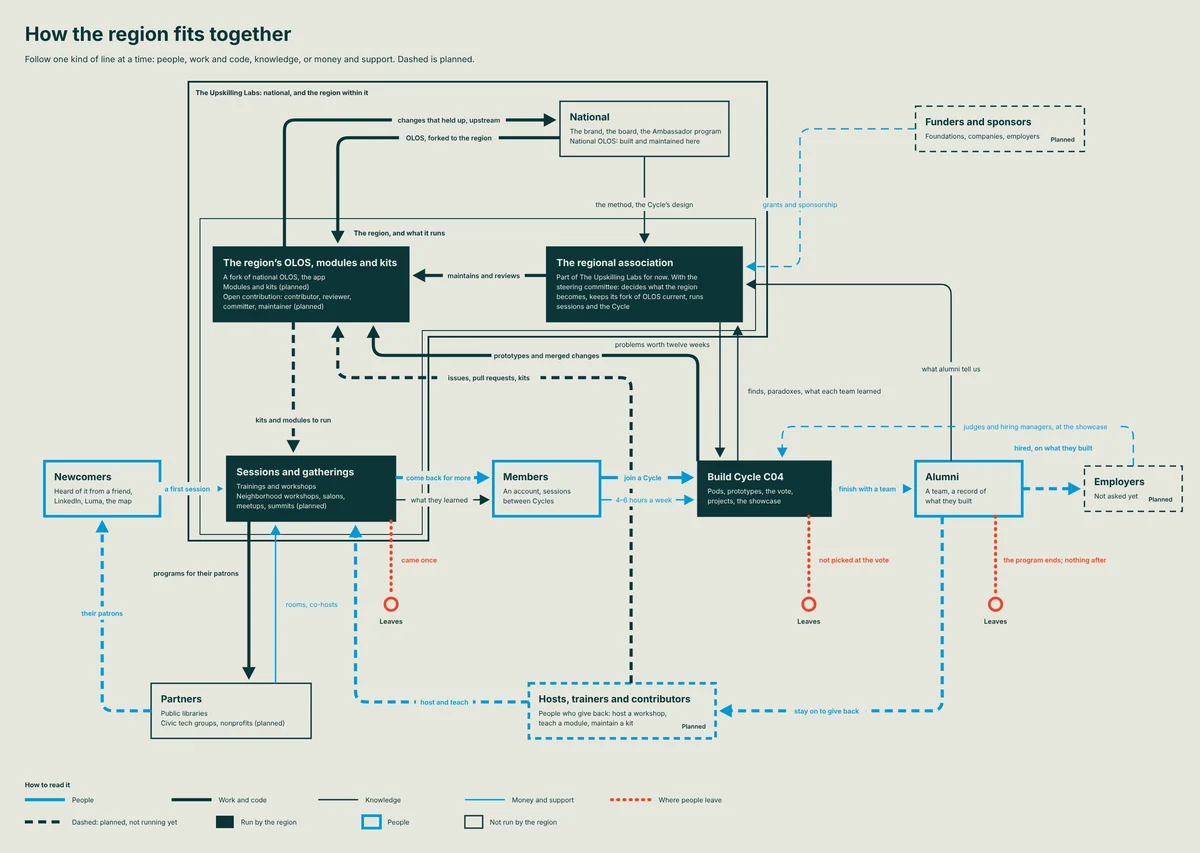
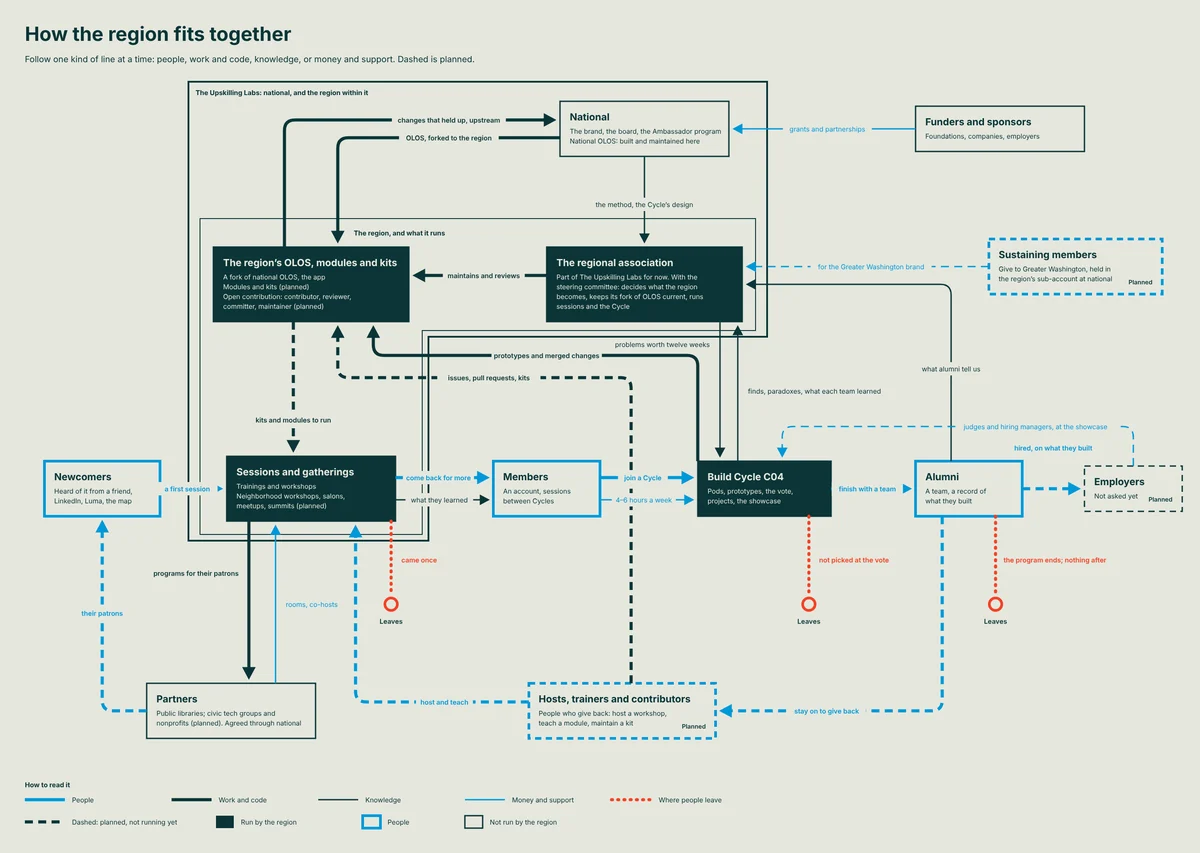
Region chart: grants and partnerships through national; sustaining members fund the region's brand
Claude-Session: https://claude.ai/code/session_01YavxCN4CNPAcbQzkCkrPMb

diff --git a/blog/region-chart/index.html b/blog/region-chart/index.html
@@ -33,7 +33,7 @@
     <a class="back" href="/blog/"><svg class="i" aria-hidden="true"><use href="#a-l"/></svg><span class="t t-small">All posts</span></a>
     <h1 style="--lsb:0.057em">How the region fits together, on one chart</h1>
     <p class="t-lead dek">How The Upskilling Labs of Greater Washington is organised, the dates the Cycle runs on, the route a person takes through both, and what we’re building next: kits, neighborhood workshops, salons, meetups, summits and an open commons.</p>
-    <p class="t-small byline">The Wayfinding pod, <time datetime="2026-11-07">Nov 7, 2026</time>. A five-minute read.</p>
+    <p class="t-small byline">The Wayfinding pod, <time datetime="2026-11-07">Nov 7, 2026</time>. A six-minute read.</p>
   </div>
 </header>
 
@@ -44,7 +44,7 @@
       <p>It’s hard to hold the whole region in your head at once, so we drew it as parts and what passes between them. The boxes are the parts: national; the regional association, which for now sits inside The Upskilling Labs, and the two things it runs; the Cycle, partners, funders, employers, and people at each stage. The lines are what moves. Four kinds of things move, and each has its own line, so you can follow one at a time: <strong>people</strong>, <strong>work and code</strong>, <strong>knowledge</strong>, and <strong>money and support</strong>.</p>
       <p>Red is where people leave. Dashed is planned: not running yet. Pick one kind of line to see it on its own.</p>
       <div class="flow-show" hidden><span class="t t-small">Show</span><button type="button" class="chip" data-show="all" aria-pressed="false">All</button><button type="button" class="chip" data-show="people" aria-pressed="false">People</button><button type="button" class="chip" data-show="work" aria-pressed="false">Work and code</button><button type="button" class="chip" data-show="knowledge" aria-pressed="false">Knowledge</button><button type="button" class="chip" data-show="support" aria-pressed="false">Money and support</button></div>
-      <div class="flow-wrap" data-show="all"><svg class="fnet" xmlns="http://www.w3.org/2000/svg" viewBox="0 0 2700 1920" role="img" aria-label="How the region fits together" font-family="Inter, system-ui, sans-serif"><rect width="2700" height="1920" fill="#e5e7de"/><text x="56" y="92" font-size="43.987" font-weight="700" fill="#0b3536">How the region fits together</text><text x="56" y="140" font-size="19.244" fill="#0b3536">Follow one kind of line at a time: people, work and code, knowledge, or money and support. Dashed is planned.</text><path d="M424.0,184.0 H1726.0 V758.0 H964.0 V1217.0 H424.0 Z" fill="none" stroke="#0b3536" stroke-width="4"/><text x="440.0" y="214.0" font-size="15.118" font-weight="700" fill="#0b3536">The Upskilling Labs: national, and the region within it</text><path d="M450.0,492.0 H1700.0 V744.0 H950.0 V1203.0 H450.0 Z" fill="none" stroke="#0b3536" stroke-width="2"/><text x="796.0" y="530.0" font-size="15.118" font-weight="700" fill="#0b3536">The region, and what it runs</text><g class="node"><rect x="1260.0" y="228.0" width="380" height="124.0" fill="#e5e7de" stroke="#0b3536" stroke-width="3"/><text x="1282.0" y="271.0" font-size="21.993" font-weight="700" fill="#0b3536">National</text><text x="1282.0" y="301.0" font-size="15.118" fill="#0b3536">The brand, the board, the Ambassador program</text><text x="1282.0" y="323.0" font-size="15.118" fill="#0b3536">National OLOS: built and maintained here</text></g><g class="node"><rect x="2060.0" y="239.0" width="380" height="102.0" fill="#e5e7de" stroke="#0b3536" stroke-width="3" stroke-dasharray="14 10"/><text x="2082.0" y="282.0" font-size="21.993" font-weight="700" fill="#0b3536">Funders and sponsors</text><text x="2082.0" y="312.0" font-size="15.118" fill="#0b3536">Foundations, companies, employers</text><text x="2418.0" y="319.0" text-anchor="end" font-size="13.745" font-weight="600" fill="#0b3536">Planned</text></g><g class="node"><rect x="480.0" y="556.0" width="440" height="168.0" fill="#0b3536" stroke="#0b3536" stroke-width="3"/><text x="502.0" y="599.0" font-size="21.993" font-weight="700" fill="#e5e7de">The region’s OLOS, modules and kits</text><text x="502.0" y="629.0" font-size="15.118" fill="#e5e7de">A fork of national OLOS, the app</text><text x="502.0" y="651.0" font-size="15.118" fill="#e5e7de">Modules and kits (planned)</text><text x="502.0" y="673.0" font-size="15.118" fill="#e5e7de">Open contribution: contributor, reviewer,</text><text x="502.0" y="695.0" font-size="15.118" fill="#e5e7de">committer, maintainer (planned)</text></g><g class="node"><rect x="1230.0" y="556.0" width="440" height="168.0" fill="#0b3536" stroke="#0b3536" stroke-width="3"/><text x="1252.0" y="599.0" font-size="21.993" font-weight="700" fill="#e5e7de">The regional association</text><text x="1252.0" y="629.0" font-size="15.118" fill="#e5e7de">Part of The Upskilling Labs for now. With the</text><text x="1252.0" y="651.0" font-size="15.118" fill="#e5e7de">steering committee: decides what the region</text><text x="1252.0" y="673.0" font-size="15.118" fill="#e5e7de">becomes, keeps its fork of OLOS current, runs</text><text x="1252.0" y="695.0" font-size="15.118" fill="#e5e7de">sessions and the Cycle</text></g><g class="node"><rect x="100.0" y="1038.0" width="260" height="124.0" fill="#e5e7de" stroke="#0098d8" stroke-width="6"/><text x="122.0" y="1081.0" font-size="21.993" font-weight="700" fill="#0b3536">Newcomers</text><text x="122.0" y="1111.0" font-size="15.118" fill="#0b3536">Heard of it from a friend,</text><text x="122.0" y="1133.0" font-size="15.118" fill="#0b3536">LinkedIn, Luma, the map</text></g><g class="node"><rect x="510.0" y="1027.0" width="380" height="146.0" fill="#0b3536" stroke="#0b3536" stroke-width="3"/><text x="532.0" y="1070.0" font-size="21.993" font-weight="700" fill="#e5e7de">Sessions and gatherings</text><text x="532.0" y="1100.0" font-size="15.118" fill="#e5e7de">Trainings and workshops</text><text x="532.0" y="1122.0" font-size="15.118" fill="#e5e7de">Neighborhood workshops, salons,</text><text x="532.0" y="1144.0" font-size="15.118" fill="#e5e7de">meetups, summits (planned)</text></g><g class="node"><rect x="1110.0" y="1038.0" width="240" height="124.0" fill="#e5e7de" stroke="#0098d8" stroke-width="6"/><text x="1132.0" y="1081.0" font-size="21.993" font-weight="700" fill="#0b3536">Members</text><text x="1132.0" y="1111.0" font-size="15.118" fill="#0b3536">An account, sessions</text><text x="1132.0" y="1133.0" font-size="15.118" fill="#0b3536">between Cycles</text></g><g class="node"><rect x="1570.0" y="1038.0" width="300" height="124.0" fill="#0b3536" stroke="#0b3536" stroke-width="3"/><text x="1592.0" y="1081.0" font-size="21.993" font-weight="700" fill="#e5e7de">Build Cycle C04</text><text x="1592.0" y="1111.0" font-size="15.118" fill="#e5e7de">Pods, prototypes, the vote,</text><text x="1592.0" y="1133.0" font-size="15.118" fill="#e5e7de">projects, the showcase</text></g><g class="node"><rect x="2060.0" y="1038.0" width="240" height="124.0" fill="#e5e7de" stroke="#0098d8" stroke-width="6"/><text x="2082.0" y="1081.0" font-size="21.993" font-weight="700" fill="#0b3536">Alumni</text><text x="2082.0" y="1111.0" font-size="15.118" fill="#0b3536">A team, a record of</text><text x="2082.0" y="1133.0" font-size="15.118" fill="#0b3536">what they built</text></g><g class="node"><rect x="2440.0" y="1049.0" width="220" height="102.0" fill="#e5e7de" stroke="#0b3536" stroke-width="3" stroke-dasharray="14 10"/><text x="2462.0" y="1092.0" font-size="21.993" font-weight="700" fill="#0b3536">Employers</text><text x="2462.0" y="1122.0" font-size="15.118" fill="#0b3536">Not asked yet</text><text x="2638.0" y="1129.0" text-anchor="end" font-size="13.745" font-weight="600" fill="#0b3536">Planned</text></g><g class="node"><rect x="340.0" y="1538.0" width="360" height="124.0" fill="#e5e7de" stroke="#0b3536" stroke-width="3"/><text x="362.0" y="1581.0" font-size="21.993" font-weight="700" fill="#0b3536">Partners</text><text x="362.0" y="1611.0" font-size="15.118" fill="#0b3536">Public libraries</text><text x="362.0" y="1633.0" font-size="15.118" fill="#0b3536">Civic tech groups, nonprofits (planned)</text></g><g class="node"><rect x="1190.0" y="1538.0" width="420" height="124.0" fill="#e5e7de" stroke="#0098d8" stroke-width="6" stroke-dasharray="14 10"/><text x="1212.0" y="1581.0" font-size="21.993" font-weight="700" fill="#0b3536">Hosts, trainers and contributors</text><text x="1212.0" y="1611.0" font-size="15.118" fill="#0b3536">People who give back: host a workshop,</text><text x="1212.0" y="1633.0" font-size="15.118" fill="#0b3536">teach a module, maintain a kit</text><text x="1588.0" y="1640.0" text-anchor="end" font-size="13.745" font-weight="600" fill="#0b3536">Planned</text></g><path class="fl f-people" d="M360.0,1100.0 L483.0,1100.0" fill="none" stroke="#0098d8" stroke-width="7"/><path class="fl f-people" d="M890.0,1075.0 L1083.0,1075.0" fill="none" stroke="#0098d8" stroke-width="7"/><path class="fl f-people" d="M1350.0,1075.0 L1543.0,1075.0" fill="none" stroke="#0098d8" stroke-width="7"/><path class="fl f-people" d="M1870.0,1100.0 L2033.0,1100.0" fill="none" stroke="#0098d8" stroke-width="7"/><path class="fl f-people" d="M2300.0,1100.0 L2413.0,1100.0" fill="none" stroke="#0098d8" stroke-width="7" stroke-dasharray="18 12"/><path class="fl f-people" d="M2120.0,1162.0 L2120.0,1576.0 Q2120.0,1600.0 2096.0,1600.0 L1637.0,1600.0" fill="none" stroke="#0098d8" stroke-width="7" stroke-dasharray="18 12"/><path class="fl f-people" d="M1190.0,1580.0 L824.0,1580.0 Q800.0,1580.0 800.0,1556.0 L800.0,1200.0" fill="none" stroke="#0098d8" stroke-width="7" stroke-dasharray="18 12"/><path class="fl f-people" d="M340.0,1600.0 L254.0,1600.0 Q230.0,1600.0 230.0,1576.0 L230.0,1189.0" fill="none" stroke="#0098d8" stroke-width="7" stroke-dasharray="18 12"/><path class="fl f-leak" d="M880.0,1173.0 L880.0,1334.0" fill="none" stroke="#f54123" stroke-width="7" stroke-dasharray="2 12" stroke-linecap="round"/><path class="fl f-leak" d="M1820.0,1162.0 L1820.0,1334.0" fill="none" stroke="#f54123" stroke-width="7" stroke-dasharray="2 12" stroke-linecap="round"/><path class="fl f-leak" d="M2240.0,1162.0 L2240.0,1334.0" fill="none" stroke="#f54123" stroke-width="7" stroke-dasharray="2 12" stroke-linecap="round"/><path class="fl f-work" d="M1230.0,620.0 L947.0,620.0" fill="none" stroke="#0b3536" stroke-width="7"/><path class="fl f-work" d="M1570.0,1038.0 L1570.0,824.0 Q1570.0,800.0 1546.0,800.0 L864.0,800.0 Q840.0,800.0 840.0,776.0 L840.0,751.0" fill="none" stroke="#0b3536" stroke-width="7"/><path class="fl f-work" d="M1420.0,1538.0 L1420.0,874.0 Q1420.0,850.0 1396.0,850.0 L784.0,850.0 Q760.0,850.0 760.0,826.0 L760.0,751.0" fill="none" stroke="#0b3536" stroke-width="7" stroke-dasharray="18 12"/><path class="fl f-work" d="M660.0,724.0 L660.0,1000.0" fill="none" stroke="#0b3536" stroke-width="7" stroke-dasharray="18 12"/><path class="fl f-work" d="M560.0,1173.0 L560.0,1511.0" fill="none" stroke="#0b3536" stroke-width="7"/><path class="fl f-knowledge" d="M1620.0,724.0 L1620.0,1015.0" fill="none" stroke="#0b3536" stroke-width="3"/><path class="fl f-knowledge" d="M1660.0,1038.0 L1660.0,747.0" fill="none" stroke="#0b3536" stroke-width="3"/><path class="fl f-knowledge" d="M890.0,1125.0 L1087.0,1125.0" fill="none" stroke="#0b3536" stroke-width="3"/><path class="fl f-knowledge" d="M2140.0,1038.0 L2140.0,664.0 Q2140.0,640.0 2116.0,640.0 L1693.0,640.0" fill="none" stroke="#0b3536" stroke-width="3"/><path class="fl f-support" d="M620.0,1538.0 L620.0,1196.0" fill="none" stroke="#0098d8" stroke-width="3"/><path class="fl f-support" d="M1350.0,1125.0 L1547.0,1125.0" fill="none" stroke="#0098d8" stroke-width="3"/><path class="fl f-support" d="M2550.0,1049.0 L2550.0,984.0 Q2550.0,960.0 2526.0,960.0 L1784.0,960.0 Q1760.0,960.0 1760.0,984.0 L1760.0,1015.0" fill="none" stroke="#0098d8" stroke-width="3" stroke-dasharray="18 12"/><path class="fl f-work" d="M1260.0,310.0 L784.0,310.0 Q760.0,310.0 760.0,334.0 L760.0,529.0" fill="none" stroke="#0b3536" stroke-width="7"/><path class="fl f-work" d="M640.0,556.0 L640.0,294.0 Q640.0,270.0 664.0,270.0 L1233.0,270.0" fill="none" stroke="#0b3536" stroke-width="7"/><path class="fl f-knowledge" d="M1450.0,352.0 L1450.0,533.0" fill="none" stroke="#0b3536" stroke-width="3"/><path class="fl f-support" d="M2060.0,290.0 L1824.0,290.0 Q1800.0,290.0 1800.0,314.0 L1800.0,576.0 Q1800.0,600.0 1776.0,600.0 L1693.0,600.0" fill="none" stroke="#0098d8" stroke-width="3" stroke-dasharray="18 12"/><path class="fl f-people" d="M473.5,1115.2 L502.0,1100.0 L473.5,1084.8 Z" fill="#0098d8"/><path class="fl f-people" d="M1073.5,1090.2 L1102.0,1075.0 L1073.5,1059.8 Z" fill="#0098d8"/><path class="fl f-people" d="M1533.5,1090.2 L1562.0,1075.0 L1533.5,1059.8 Z" fill="#0098d8"/><path class="fl f-people" d="M2023.5,1115.2 L2052.0,1100.0 L2023.5,1084.8 Z" fill="#0098d8"/><path class="fl f-people" d="M2403.5,1115.2 L2432.0,1100.0 L2403.5,1084.8 Z" fill="#0098d8"/><path class="fl f-people" d="M1646.5,1584.8 L1618.0,1600.0 L1646.5,1615.2 Z" fill="#0098d8"/><path class="fl f-people" d="M815.2,1209.5 L800.0,1181.0 L784.8,1209.5 Z" fill="#0098d8"/><path class="fl f-people" d="M245.2,1198.5 L230.0,1170.0 L214.8,1198.5 Z" fill="#0098d8"/><path class="fl f-work" d="M956.5,604.8 L928.0,620.0 L956.5,635.2 Z" fill="#0b3536"/><path class="fl f-work" d="M855.2,760.5 L840.0,732.0 L824.8,760.5 Z" fill="#0b3536"/><path class="fl f-work" d="M775.2,760.5 L760.0,732.0 L744.8,760.5 Z" fill="#0b3536"/><path class="fl f-work" d="M644.8,990.5 L660.0,1019.0 L675.2,990.5 Z" fill="#0b3536"/><path class="fl f-work" d="M544.8,1501.5 L560.0,1530.0 L575.2,1501.5 Z" fill="#0b3536"/><path class="fl f-knowledge" d="M1608.0,1007.5 L1620.0,1030.0 L1632.0,1007.5 Z" fill="#0b3536"/><path class="fl f-knowledge" d="M1672.0,754.5 L1660.0,732.0 L1648.0,754.5 Z" fill="#0b3536"/><path class="fl f-knowledge" d="M1079.5,1137.0 L1102.0,1125.0 L1079.5,1113.0 Z" fill="#0b3536"/><path class="fl f-knowledge" d="M1700.5,628.0 L1678.0,640.0 L1700.5,652.0 Z" fill="#0b3536"/><path class="fl f-support" d="M632.0,1203.5 L620.0,1181.0 L608.0,1203.5 Z" fill="#0098d8"/><path class="fl f-support" d="M1539.5,1137.0 L1562.0,1125.0 L1539.5,1113.0 Z" fill="#0098d8"/><path class="fl f-support" d="M1748.0,1007.5 L1760.0,1030.0 L1772.0,1007.5 Z" fill="#0098d8"/><path class="fl f-work" d="M744.8,519.5 L760.0,548.0 L775.2,519.5 Z" fill="#0b3536"/><path class="fl f-work" d="M1223.5,285.2 L1252.0,270.0 L1223.5,254.8 Z" fill="#0b3536"/><path class="fl f-knowledge" d="M1438.0,525.5 L1450.0,548.0 L1462.0,525.5 Z" fill="#0b3536"/><path class="fl f-support" d="M1700.5,588.0 L1678.0,600.0 L1700.5,612.0 Z" fill="#0098d8"/><g class="fl f-leak"><circle cx="880" cy="1360" r="14" fill="#e5e7de" stroke="#f54123" stroke-width="6"/><text x="880" y="1404" text-anchor="middle" font-size="15.118" font-weight="600" fill="#0b3536">Leaves</text></g><g class="fl f-leak"><circle cx="1820" cy="1360" r="14" fill="#e5e7de" stroke="#f54123" stroke-width="6"/><text x="1820" y="1404" text-anchor="middle" font-size="15.118" font-weight="600" fill="#0b3536">Leaves</text></g><g class="fl f-leak"><circle cx="2240" cy="1360" r="14" fill="#e5e7de" stroke="#f54123" stroke-width="6"/><text x="2240" y="1404" text-anchor="middle" font-size="15.118" font-weight="600" fill="#0b3536">Leaves</text></g><g class="fl f-people"><rect x="353.4" y="1085.0" width="136.2" height="30" fill="#e5e7de"/><text x="421.5" y="1105.5" text-anchor="middle" font-size="15.118" font-weight="600" fill="#0098d8">a first session</text></g><g class="fl f-people"><rect x="906.4" y="1060.0" width="160.2" height="30" fill="#e5e7de"/><text x="986.5" y="1080.5" text-anchor="middle" font-size="15.118" font-weight="600" fill="#0098d8">come back for more</text></g><g class="fl f-people"><rect x="1390.4" y="1060.0" width="112.2" height="30" fill="#e5e7de"/><text x="1446.5" y="1080.5" text-anchor="middle" font-size="15.118" font-weight="600" fill="#0098d8">join a Cycle</text></g><g class="fl f-people"><rect x="1871.4" y="1085.0" width="160.2" height="30" fill="#e5e7de"/><text x="1951.5" y="1105.5" text-anchor="middle" font-size="15.118" font-weight="600" fill="#0098d8">finish with a team</text></g><g class="fl f-people"><rect x="2261.8" y="993.0" width="216.3" height="30" fill="#e5e7de"/><text x="2370.0" y="1013.5" text-anchor="middle" font-size="15.118" font-weight="600" fill="#0098d8">hired, on what they built</text></g><g class="fl f-people"><rect x="1771.9" y="1585.0" width="176.3" height="30" fill="#e5e7de"/><text x="1860.0" y="1605.5" text-anchor="middle" font-size="15.118" font-weight="600" fill="#0098d8">stay on to give back</text></g><g class="fl f-people"><rect x="935.9" y="1565.0" width="128.2" height="30" fill="#e5e7de"/><text x="1000.0" y="1585.5" text-anchor="middle" font-size="15.118" font-weight="600" fill="#0098d8">host and teach</text></g><g class="fl f-people"><rect x="169.9" y="1365.0" width="120.2" height="30" fill="#e5e7de"/><text x="230.0" y="1385.5" text-anchor="middle" font-size="15.118" font-weight="600" fill="#0098d8">their patrons</text></g><g class="fl f-leak"><rect x="895.0" y="1245.0" width="88.1" height="30" fill="#e5e7de"/><text x="903.0" y="1265.5" text-anchor="start" font-size="15.118" font-weight="600" fill="#f54123">came once</text></g><g class="fl f-leak"><rect x="1835.0" y="1245.0" width="192.3" height="30" fill="#e5e7de"/><text x="1843.0" y="1265.5" text-anchor="start" font-size="15.118" font-weight="600" fill="#f54123">not picked at the vote</text></g><g class="fl f-leak"><rect x="2250.0" y="1245.0" width="264.4" height="30" fill="#e5e7de"/><text x="2258.0" y="1265.5" text-anchor="start" font-size="15.118" font-weight="600" fill="#f54123">the program ends; nothing after</text></g><g class="fl f-work"><rect x="996.4" y="605.0" width="184.3" height="30" fill="#e5e7de"/><text x="1088.5" y="625.5" text-anchor="middle" font-size="15.118" font-weight="600" fill="#0b3536">maintains and reviews</text></g><g class="fl f-work"><rect x="1105.8" y="785.0" width="248.4" height="30" fill="#e5e7de"/><text x="1230.0" y="805.5" text-anchor="middle" font-size="15.118" font-weight="600" fill="#0b3536">prototypes and merged changes</text></g><g class="fl f-work"><rect x="983.8" y="835.0" width="232.3" height="30" fill="#e5e7de"/><text x="1100.0" y="855.5" text-anchor="middle" font-size="15.118" font-weight="600" fill="#0b3536">issues, pull requests, kits</text></g><g class="fl f-work"><rect x="559.9" y="930.0" width="200.3" height="30" fill="#e5e7de"/><text x="660.0" y="950.5" text-anchor="middle" font-size="15.118" font-weight="600" fill="#0b3536">kits and modules to run</text></g><g class="fl f-work"><rect x="320.7" y="1275.0" width="224.3" height="30" fill="#e5e7de"/><text x="537.0" y="1295.5" text-anchor="end" font-size="15.118" font-weight="600" fill="#0b3536">programs for their patrons</text></g><g class="fl f-knowledge"><rect x="1372.7" y="760.0" width="232.3" height="30" fill="#e5e7de"/><text x="1597.0" y="780.5" text-anchor="end" font-size="15.118" font-weight="400" fill="#0b3536">problems worth twelve weeks</text></g><g class="fl f-knowledge"><rect x="1675.0" y="865.0" width="336.5" height="30" fill="#e5e7de"/><text x="1683.0" y="885.5" text-anchor="start" font-size="15.118" font-weight="400" fill="#0b3536">finds, paradoxes, what each team learned</text></g><g class="fl f-knowledge"><rect x="912.4" y="1110.0" width="152.2" height="30" fill="#e5e7de"/><text x="988.5" y="1130.5" text-anchor="middle" font-size="15.118" font-weight="400" fill="#0b3536">what they learned</text></g><g class="fl f-knowledge"><rect x="2055.9" y="815.0" width="168.2" height="30" fill="#e5e7de"/><text x="2140.0" y="835.5" text-anchor="middle" font-size="15.118" font-weight="400" fill="#0b3536">what alumni tell us</text></g><g class="fl f-support"><rect x="635.0" y="1345.0" width="136.2" height="30" fill="#e5e7de"/><text x="643.0" y="1365.5" text-anchor="start" font-size="15.118" font-weight="400" fill="#0098d8">rooms, co-hosts</text></g><g class="fl f-support"><rect x="1376.4" y="1110.0" width="144.2" height="30" fill="#e5e7de"/><text x="1448.5" y="1130.5" text-anchor="middle" font-size="15.118" font-weight="400" fill="#0098d8">4–6 hours a week</text></g><g class="fl f-support"><rect x="2149.7" y="945.0" width="360.5" height="30" fill="#e5e7de"/><text x="2330.0" y="965.5" text-anchor="middle" font-size="15.118" font-weight="400" fill="#0098d8">judges and hiring managers, at the showcase</text></g><g class="fl f-work"><rect x="897.8" y="295.0" width="224.3" height="30" fill="#e5e7de"/><text x="1010.0" y="315.5" text-anchor="middle" font-size="15.118" font-weight="600" fill="#0b3536">OLOS, forked to the region</text></g><g class="fl f-work"><rect x="881.8" y="255.0" width="256.4" height="30" fill="#e5e7de"/><text x="1010.0" y="275.5" text-anchor="middle" font-size="15.118" font-weight="600" fill="#0b3536">changes that held up, upstream</text></g><g class="fl f-knowledge"><rect x="1321.8" y="445.0" width="256.4" height="30" fill="#e5e7de"/><text x="1450.0" y="465.5" text-anchor="middle" font-size="15.118" font-weight="400" fill="#0b3536">the method, the Cycle’s design</text></g><g class="fl f-support"><rect x="1703.9" y="445.0" width="192.3" height="30" fill="#e5e7de"/><text x="1800.0" y="465.5" text-anchor="middle" font-size="15.118" font-weight="400" fill="#0098d8">grants and sponsorship</text></g><text x="56" y="1772" font-size="15.118" font-weight="700" fill="#0b3536">How to read it</text><line x1="56" y1="1800" x2="146" y2="1800" stroke="#0098d8" stroke-width="7"/><text x="162" y="1805.5" font-size="15.118" fill="#0b3536">People</text><line x1="386" y1="1800" x2="476" y2="1800" stroke="#0b3536" stroke-width="7"/><text x="492" y="1805.5" font-size="15.118" fill="#0b3536">Work and code</text><line x1="716" y1="1800" x2="806" y2="1800" stroke="#0b3536" stroke-width="3"/><text x="822" y="1805.5" font-size="15.118" fill="#0b3536">Knowledge</text><line x1="1046" y1="1800" x2="1136" y2="1800" stroke="#0098d8" stroke-width="3"/><text x="1152" y="1805.5" font-size="15.118" fill="#0b3536">Money and support</text><line x1="1376" y1="1800" x2="1466" y2="1800" stroke="#f54123" stroke-width="7" stroke-dasharray="2 12" stroke-linecap="round"/><text x="1482" y="1805.5" font-size="15.118" fill="#0b3536">Where people leave</text><line x1="56" y1="1850" x2="146" y2="1850" stroke="#0b3536" stroke-width="7" stroke-dasharray="18 12"/><text x="162" y="1855.5" font-size="15.118" fill="#0b3536">Dashed: planned, not running yet</text><rect x="486" y="1836" width="40" height="28" fill="#0b3536"/><text x="542" y="1855.5" font-size="15.118" fill="#0b3536">Run by the region</text><rect x="816" y="1836" width="40" height="28" fill="#e5e7de" stroke="#0098d8" stroke-width="6"/><text x="872" y="1855.5" font-size="15.118" fill="#0b3536">People</text><rect x="1046" y="1836" width="40" height="28" fill="#e5e7de" stroke="#0b3536" stroke-width="3"/><text x="1102" y="1855.5" font-size="15.118" fill="#0b3536">Not run by the region</text></svg></div>
+      <div class="flow-wrap" data-show="all"><svg class="fnet" xmlns="http://www.w3.org/2000/svg" viewBox="0 0 2700 1920" role="img" aria-label="How the region fits together" font-family="Inter, system-ui, sans-serif"><rect width="2700" height="1920" fill="#e5e7de"/><text x="56" y="92" font-size="43.987" font-weight="700" fill="#0b3536">How the region fits together</text><text x="56" y="140" font-size="19.244" fill="#0b3536">Follow one kind of line at a time: people, work and code, knowledge, or money and support. Dashed is planned.</text><path d="M424.0,184.0 H1726.0 V758.0 H964.0 V1217.0 H424.0 Z" fill="none" stroke="#0b3536" stroke-width="4"/><text x="440.0" y="214.0" font-size="15.118" font-weight="700" fill="#0b3536">The Upskilling Labs: national, and the region within it</text><path d="M450.0,492.0 H1700.0 V744.0 H950.0 V1203.0 H450.0 Z" fill="none" stroke="#0b3536" stroke-width="2"/><text x="796.0" y="530.0" font-size="15.118" font-weight="700" fill="#0b3536">The region, and what it runs</text><g class="node"><rect x="1260.0" y="228.0" width="380" height="124.0" fill="#e5e7de" stroke="#0b3536" stroke-width="3"/><text x="1282.0" y="271.0" font-size="21.993" font-weight="700" fill="#0b3536">National</text><text x="1282.0" y="301.0" font-size="15.118" fill="#0b3536">The brand, the board, the Ambassador program</text><text x="1282.0" y="323.0" font-size="15.118" fill="#0b3536">National OLOS: built and maintained here</text></g><g class="node"><rect x="2060.0" y="239.0" width="380" height="102.0" fill="#e5e7de" stroke="#0b3536" stroke-width="3"/><text x="2082.0" y="282.0" font-size="21.993" font-weight="700" fill="#0b3536">Funders and sponsors</text><text x="2082.0" y="312.0" font-size="15.118" fill="#0b3536">Foundations, companies, employers</text></g><g class="node"><rect x="480.0" y="556.0" width="440" height="168.0" fill="#0b3536" stroke="#0b3536" stroke-width="3"/><text x="502.0" y="599.0" font-size="21.993" font-weight="700" fill="#e5e7de">The region’s OLOS, modules and kits</text><text x="502.0" y="629.0" font-size="15.118" fill="#e5e7de">A fork of national OLOS, the app</text><text x="502.0" y="651.0" font-size="15.118" fill="#e5e7de">Modules and kits (planned)</text><text x="502.0" y="673.0" font-size="15.118" fill="#e5e7de">Open contribution: contributor, reviewer,</text><text x="502.0" y="695.0" font-size="15.118" fill="#e5e7de">committer, maintainer (planned)</text></g><g class="node"><rect x="1230.0" y="556.0" width="440" height="168.0" fill="#0b3536" stroke="#0b3536" stroke-width="3"/><text x="1252.0" y="599.0" font-size="21.993" font-weight="700" fill="#e5e7de">The regional association</text><text x="1252.0" y="629.0" font-size="15.118" fill="#e5e7de">Part of The Upskilling Labs for now. With the</text><text x="1252.0" y="651.0" font-size="15.118" fill="#e5e7de">steering committee: decides what the region</text><text x="1252.0" y="673.0" font-size="15.118" fill="#e5e7de">becomes, keeps its fork of OLOS current, runs</text><text x="1252.0" y="695.0" font-size="15.118" fill="#e5e7de">sessions and the Cycle</text></g><g class="node"><rect x="100.0" y="1038.0" width="260" height="124.0" fill="#e5e7de" stroke="#0098d8" stroke-width="6"/><text x="122.0" y="1081.0" font-size="21.993" font-weight="700" fill="#0b3536">Newcomers</text><text x="122.0" y="1111.0" font-size="15.118" fill="#0b3536">Heard of it from a friend,</text><text x="122.0" y="1133.0" font-size="15.118" fill="#0b3536">LinkedIn, Luma, the map</text></g><g class="node"><rect x="510.0" y="1027.0" width="380" height="146.0" fill="#0b3536" stroke="#0b3536" stroke-width="3"/><text x="532.0" y="1070.0" font-size="21.993" font-weight="700" fill="#e5e7de">Sessions and gatherings</text><text x="532.0" y="1100.0" font-size="15.118" fill="#e5e7de">Trainings and workshops</text><text x="532.0" y="1122.0" font-size="15.118" fill="#e5e7de">Neighborhood workshops, salons,</text><text x="532.0" y="1144.0" font-size="15.118" fill="#e5e7de">meetups, summits (planned)</text></g><g class="node"><rect x="1110.0" y="1038.0" width="240" height="124.0" fill="#e5e7de" stroke="#0098d8" stroke-width="6"/><text x="1132.0" y="1081.0" font-size="21.993" font-weight="700" fill="#0b3536">Members</text><text x="1132.0" y="1111.0" font-size="15.118" fill="#0b3536">An account, sessions</text><text x="1132.0" y="1133.0" font-size="15.118" fill="#0b3536">between Cycles</text></g><g class="node"><rect x="1570.0" y="1038.0" width="300" height="124.0" fill="#0b3536" stroke="#0b3536" stroke-width="3"/><text x="1592.0" y="1081.0" font-size="21.993" font-weight="700" fill="#e5e7de">Build Cycle C04</text><text x="1592.0" y="1111.0" font-size="15.118" fill="#e5e7de">Pods, prototypes, the vote,</text><text x="1592.0" y="1133.0" font-size="15.118" fill="#e5e7de">projects, the showcase</text></g><g class="node"><rect x="2060.0" y="1038.0" width="240" height="124.0" fill="#e5e7de" stroke="#0098d8" stroke-width="6"/><text x="2082.0" y="1081.0" font-size="21.993" font-weight="700" fill="#0b3536">Alumni</text><text x="2082.0" y="1111.0" font-size="15.118" fill="#0b3536">A team, a record of</text><text x="2082.0" y="1133.0" font-size="15.118" fill="#0b3536">what they built</text></g><g class="node"><rect x="2440.0" y="1049.0" width="220" height="102.0" fill="#e5e7de" stroke="#0b3536" stroke-width="3" stroke-dasharray="14 10"/><text x="2462.0" y="1092.0" font-size="21.993" font-weight="700" fill="#0b3536">Employers</text><text x="2462.0" y="1122.0" font-size="15.118" fill="#0b3536">Not asked yet</text><text x="2638.0" y="1129.0" text-anchor="end" font-size="13.745" font-weight="600" fill="#0b3536">Planned</text></g><g class="node"><rect x="330.0" y="1538.0" width="380" height="124.0" fill="#e5e7de" stroke="#0b3536" stroke-width="3"/><text x="352.0" y="1581.0" font-size="21.993" font-weight="700" fill="#0b3536">Partners</text><text x="352.0" y="1611.0" font-size="15.118" fill="#0b3536">Public libraries; civic tech groups and</text><text x="352.0" y="1633.0" font-size="15.118" fill="#0b3536">nonprofits (planned). Agreed through national</text></g><g class="node"><rect x="1190.0" y="1538.0" width="420" height="124.0" fill="#e5e7de" stroke="#0098d8" stroke-width="6" stroke-dasharray="14 10"/><text x="1212.0" y="1581.0" font-size="21.993" font-weight="700" fill="#0b3536">Hosts, trainers and contributors</text><text x="1212.0" y="1611.0" font-size="15.118" fill="#0b3536">People who give back: host a workshop,</text><text x="1212.0" y="1633.0" font-size="15.118" fill="#0b3536">teach a module, maintain a kit</text><text x="1588.0" y="1640.0" text-anchor="end" font-size="13.745" font-weight="600" fill="#0b3536">Planned</text></g><g class="node"><rect x="2225.0" y="538.0" width="390" height="124.0" fill="#e5e7de" stroke="#0098d8" stroke-width="6" stroke-dasharray="14 10"/><text x="2247.0" y="581.0" font-size="21.993" font-weight="700" fill="#0b3536">Sustaining members</text><text x="2247.0" y="611.0" font-size="15.118" fill="#0b3536">Give to Greater Washington, held in</text><text x="2247.0" y="633.0" font-size="15.118" fill="#0b3536">the region’s sub-account at national</text><text x="2593.0" y="640.0" text-anchor="end" font-size="13.745" font-weight="600" fill="#0b3536">Planned</text></g><path class="fl f-people" d="M360.0,1100.0 L483.0,1100.0" fill="none" stroke="#0098d8" stroke-width="7"/><path class="fl f-people" d="M890.0,1075.0 L1083.0,1075.0" fill="none" stroke="#0098d8" stroke-width="7"/><path class="fl f-people" d="M1350.0,1075.0 L1543.0,1075.0" fill="none" stroke="#0098d8" stroke-width="7"/><path class="fl f-people" d="M1870.0,1100.0 L2033.0,1100.0" fill="none" stroke="#0098d8" stroke-width="7"/><path class="fl f-people" d="M2300.0,1100.0 L2413.0,1100.0" fill="none" stroke="#0098d8" stroke-width="7" stroke-dasharray="18 12"/><path class="fl f-people" d="M2120.0,1162.0 L2120.0,1576.0 Q2120.0,1600.0 2096.0,1600.0 L1637.0,1600.0" fill="none" stroke="#0098d8" stroke-width="7" stroke-dasharray="18 12"/><path class="fl f-people" d="M1190.0,1580.0 L824.0,1580.0 Q800.0,1580.0 800.0,1556.0 L800.0,1200.0" fill="none" stroke="#0098d8" stroke-width="7" stroke-dasharray="18 12"/><path class="fl f-people" d="M330.0,1600.0 L254.0,1600.0 Q230.0,1600.0 230.0,1576.0 L230.0,1189.0" fill="none" stroke="#0098d8" stroke-width="7" stroke-dasharray="18 12"/><path class="fl f-leak" d="M880.0,1173.0 L880.0,1334.0" fill="none" stroke="#f54123" stroke-width="7" stroke-dasharray="2 12" stroke-linecap="round"/><path class="fl f-leak" d="M1820.0,1162.0 L1820.0,1334.0" fill="none" stroke="#f54123" stroke-width="7" stroke-dasharray="2 12" stroke-linecap="round"/><path class="fl f-leak" d="M2240.0,1162.0 L2240.0,1334.0" fill="none" stroke="#f54123" stroke-width="7" stroke-dasharray="2 12" stroke-linecap="round"/><path class="fl f-work" d="M1230.0,620.0 L947.0,620.0" fill="none" stroke="#0b3536" stroke-width="7"/><path class="fl f-work" d="M1570.0,1038.0 L1570.0,824.0 Q1570.0,800.0 1546.0,800.0 L864.0,800.0 Q840.0,800.0 840.0,776.0 L840.0,751.0" fill="none" stroke="#0b3536" stroke-width="7"/><path class="fl f-work" d="M1420.0,1538.0 L1420.0,874.0 Q1420.0,850.0 1396.0,850.0 L784.0,850.0 Q760.0,850.0 760.0,826.0 L760.0,751.0" fill="none" stroke="#0b3536" stroke-width="7" stroke-dasharray="18 12"/><path class="fl f-work" d="M660.0,724.0 L660.0,1000.0" fill="none" stroke="#0b3536" stroke-width="7" stroke-dasharray="18 12"/><path class="fl f-work" d="M560.0,1173.0 L560.0,1511.0" fill="none" stroke="#0b3536" stroke-width="7"/><path class="fl f-knowledge" d="M1620.0,724.0 L1620.0,1015.0" fill="none" stroke="#0b3536" stroke-width="3"/><path class="fl f-knowledge" d="M1660.0,1038.0 L1660.0,747.0" fill="none" stroke="#0b3536" stroke-width="3"/><path class="fl f-knowledge" d="M890.0,1125.0 L1087.0,1125.0" fill="none" stroke="#0b3536" stroke-width="3"/><path class="fl f-knowledge" d="M2140.0,1038.0 L2140.0,664.0 Q2140.0,640.0 2116.0,640.0 L1693.0,640.0" fill="none" stroke="#0b3536" stroke-width="3"/><path class="fl f-support" d="M620.0,1538.0 L620.0,1196.0" fill="none" stroke="#0098d8" stroke-width="3"/><path class="fl f-support" d="M1350.0,1125.0 L1547.0,1125.0" fill="none" stroke="#0098d8" stroke-width="3"/><path class="fl f-support" d="M2550.0,1049.0 L2550.0,984.0 Q2550.0,960.0 2526.0,960.0 L1784.0,960.0 Q1760.0,960.0 1760.0,984.0 L1760.0,1015.0" fill="none" stroke="#0098d8" stroke-width="3" stroke-dasharray="18 12"/><path class="fl f-work" d="M1260.0,310.0 L784.0,310.0 Q760.0,310.0 760.0,334.0 L760.0,529.0" fill="none" stroke="#0b3536" stroke-width="7"/><path class="fl f-work" d="M640.0,556.0 L640.0,294.0 Q640.0,270.0 664.0,270.0 L1233.0,270.0" fill="none" stroke="#0b3536" stroke-width="7"/><path class="fl f-knowledge" d="M1450.0,352.0 L1450.0,533.0" fill="none" stroke="#0b3536" stroke-width="3"/><path class="fl f-support" d="M2060.0,290.0 L1663.0,290.0" fill="none" stroke="#0098d8" stroke-width="3"/><path class="fl f-support" d="M2225.0,600.0 L1693.0,600.0" fill="none" stroke="#0098d8" stroke-width="3" stroke-dasharray="18 12"/><path class="fl f-people" d="M473.5,1115.2 L502.0,1100.0 L473.5,1084.8 Z" fill="#0098d8"/><path class="fl f-people" d="M1073.5,1090.2 L1102.0,1075.0 L1073.5,1059.8 Z" fill="#0098d8"/><path class="fl f-people" d="M1533.5,1090.2 L1562.0,1075.0 L1533.5,1059.8 Z" fill="#0098d8"/><path class="fl f-people" d="M2023.5,1115.2 L2052.0,1100.0 L2023.5,1084.8 Z" fill="#0098d8"/><path class="fl f-people" d="M2403.5,1115.2 L2432.0,1100.0 L2403.5,1084.8 Z" fill="#0098d8"/><path class="fl f-people" d="M1646.5,1584.8 L1618.0,1600.0 L1646.5,1615.2 Z" fill="#0098d8"/><path class="fl f-people" d="M815.2,1209.5 L800.0,1181.0 L784.8,1209.5 Z" fill="#0098d8"/><path class="fl f-people" d="M245.2,1198.5 L230.0,1170.0 L214.8,1198.5 Z" fill="#0098d8"/><path class="fl f-work" d="M956.5,604.8 L928.0,620.0 L956.5,635.2 Z" fill="#0b3536"/><path class="fl f-work" d="M855.2,760.5 L840.0,732.0 L824.8,760.5 Z" fill="#0b3536"/><path class="fl f-work" d="M775.2,760.5 L760.0,732.0 L744.8,760.5 Z" fill="#0b3536"/><path class="fl f-work" d="M644.8,990.5 L660.0,1019.0 L675.2,990.5 Z" fill="#0b3536"/><path class="fl f-work" d="M544.8,1501.5 L560.0,1530.0 L575.2,1501.5 Z" fill="#0b3536"/><path class="fl f-knowledge" d="M1608.0,1007.5 L1620.0,1030.0 L1632.0,1007.5 Z" fill="#0b3536"/><path class="fl f-knowledge" d="M1672.0,754.5 L1660.0,732.0 L1648.0,754.5 Z" fill="#0b3536"/><path class="fl f-knowledge" d="M1079.5,1137.0 L1102.0,1125.0 L1079.5,1113.0 Z" fill="#0b3536"/><path class="fl f-knowledge" d="M1700.5,628.0 L1678.0,640.0 L1700.5,652.0 Z" fill="#0b3536"/><path class="fl f-support" d="M632.0,1203.5 L620.0,1181.0 L608.0,1203.5 Z" fill="#0098d8"/><path class="fl f-support" d="M1539.5,1137.0 L1562.0,1125.0 L1539.5,1113.0 Z" fill="#0098d8"/><path class="fl f-support" d="M1748.0,1007.5 L1760.0,1030.0 L1772.0,1007.5 Z" fill="#0098d8"/><path class="fl f-work" d="M744.8,519.5 L760.0,548.0 L775.2,519.5 Z" fill="#0b3536"/><path class="fl f-work" d="M1223.5,285.2 L1252.0,270.0 L1223.5,254.8 Z" fill="#0b3536"/><path class="fl f-knowledge" d="M1438.0,525.5 L1450.0,548.0 L1462.0,525.5 Z" fill="#0b3536"/><path class="fl f-support" d="M1670.5,278.0 L1648.0,290.0 L1670.5,302.0 Z" fill="#0098d8"/><path class="fl f-support" d="M1700.5,588.0 L1678.0,600.0 L1700.5,612.0 Z" fill="#0098d8"/><g class="fl f-leak"><circle cx="880" cy="1360" r="14" fill="#e5e7de" stroke="#f54123" stroke-width="6"/><text x="880" y="1404" text-anchor="middle" font-size="15.118" font-weight="600" fill="#0b3536">Leaves</text></g><g class="fl f-leak"><circle cx="1820" cy="1360" r="14" fill="#e5e7de" stroke="#f54123" stroke-width="6"/><text x="1820" y="1404" text-anchor="middle" font-size="15.118" font-weight="600" fill="#0b3536">Leaves</text></g><g class="fl f-leak"><circle cx="2240" cy="1360" r="14" fill="#e5e7de" stroke="#f54123" stroke-width="6"/><text x="2240" y="1404" text-anchor="middle" font-size="15.118" font-weight="600" fill="#0b3536">Leaves</text></g><g class="fl f-people"><rect x="353.4" y="1085.0" width="136.2" height="30" fill="#e5e7de"/><text x="421.5" y="1105.5" text-anchor="middle" font-size="15.118" font-weight="600" fill="#0098d8">a first session</text></g><g class="fl f-people"><rect x="906.4" y="1060.0" width="160.2" height="30" fill="#e5e7de"/><text x="986.5" y="1080.5" text-anchor="middle" font-size="15.118" font-weight="600" fill="#0098d8">come back for more</text></g><g class="fl f-people"><rect x="1390.4" y="1060.0" width="112.2" height="30" fill="#e5e7de"/><text x="1446.5" y="1080.5" text-anchor="middle" font-size="15.118" font-weight="600" fill="#0098d8">join a Cycle</text></g><g class="fl f-people"><rect x="1871.4" y="1085.0" width="160.2" height="30" fill="#e5e7de"/><text x="1951.5" y="1105.5" text-anchor="middle" font-size="15.118" font-weight="600" fill="#0098d8">finish with a team</text></g><g class="fl f-people"><rect x="2261.8" y="993.0" width="216.3" height="30" fill="#e5e7de"/><text x="2370.0" y="1013.5" text-anchor="middle" font-size="15.118" font-weight="600" fill="#0098d8">hired, on what they built</text></g><g class="fl f-people"><rect x="1771.9" y="1585.0" width="176.3" height="30" fill="#e5e7de"/><text x="1860.0" y="1605.5" text-anchor="middle" font-size="15.118" font-weight="600" fill="#0098d8">stay on to give back</text></g><g class="fl f-people"><rect x="935.9" y="1565.0" width="128.2" height="30" fill="#e5e7de"/><text x="1000.0" y="1585.5" text-anchor="middle" font-size="15.118" font-weight="600" fill="#0098d8">host and teach</text></g><g class="fl f-people"><rect x="169.9" y="1365.0" width="120.2" height="30" fill="#e5e7de"/><text x="230.0" y="1385.5" text-anchor="middle" font-size="15.118" font-weight="600" fill="#0098d8">their patrons</text></g><g class="fl f-leak"><rect x="895.0" y="1245.0" width="88.1" height="30" fill="#e5e7de"/><text x="903.0" y="1265.5" text-anchor="start" font-size="15.118" font-weight="600" fill="#f54123">came once</text></g><g class="fl f-leak"><rect x="1835.0" y="1245.0" width="192.3" height="30" fill="#e5e7de"/><text x="1843.0" y="1265.5" text-anchor="start" font-size="15.118" font-weight="600" fill="#f54123">not picked at the vote</text></g><g class="fl f-leak"><rect x="2250.0" y="1245.0" width="264.4" height="30" fill="#e5e7de"/><text x="2258.0" y="1265.5" text-anchor="start" font-size="15.118" font-weight="600" fill="#f54123">the program ends; nothing after</text></g><g class="fl f-work"><rect x="996.4" y="605.0" width="184.3" height="30" fill="#e5e7de"/><text x="1088.5" y="625.5" text-anchor="middle" font-size="15.118" font-weight="600" fill="#0b3536">maintains and reviews</text></g><g class="fl f-work"><rect x="1105.8" y="785.0" width="248.4" height="30" fill="#e5e7de"/><text x="1230.0" y="805.5" text-anchor="middle" font-size="15.118" font-weight="600" fill="#0b3536">prototypes and merged changes</text></g><g class="fl f-work"><rect x="983.8" y="835.0" width="232.3" height="30" fill="#e5e7de"/><text x="1100.0" y="855.5" text-anchor="middle" font-size="15.118" font-weight="600" fill="#0b3536">issues, pull requests, kits</text></g><g class="fl f-work"><rect x="559.9" y="930.0" width="200.3" height="30" fill="#e5e7de"/><text x="660.0" y="950.5" text-anchor="middle" font-size="15.118" font-weight="600" fill="#0b3536">kits and modules to run</text></g><g class="fl f-work"><rect x="320.7" y="1275.0" width="224.3" height="30" fill="#e5e7de"/><text x="537.0" y="1295.5" text-anchor="end" font-size="15.118" font-weight="600" fill="#0b3536">programs for their patrons</text></g><g class="fl f-knowledge"><rect x="1372.7" y="760.0" width="232.3" height="30" fill="#e5e7de"/><text x="1597.0" y="780.5" text-anchor="end" font-size="15.118" font-weight="400" fill="#0b3536">problems worth twelve weeks</text></g><g class="fl f-knowledge"><rect x="1675.0" y="865.0" width="336.5" height="30" fill="#e5e7de"/><text x="1683.0" y="885.5" text-anchor="start" font-size="15.118" font-weight="400" fill="#0b3536">finds, paradoxes, what each team learned</text></g><g class="fl f-knowledge"><rect x="912.4" y="1110.0" width="152.2" height="30" fill="#e5e7de"/><text x="988.5" y="1130.5" text-anchor="middle" font-size="15.118" font-weight="400" fill="#0b3536">what they learned</text></g><g class="fl f-knowledge"><rect x="2055.9" y="815.0" width="168.2" height="30" fill="#e5e7de"/><text x="2140.0" y="835.5" text-anchor="middle" font-size="15.118" font-weight="400" fill="#0b3536">what alumni tell us</text></g><g class="fl f-support"><rect x="635.0" y="1345.0" width="136.2" height="30" fill="#e5e7de"/><text x="643.0" y="1365.5" text-anchor="start" font-size="15.118" font-weight="400" fill="#0098d8">rooms, co-hosts</text></g><g class="fl f-support"><rect x="1376.4" y="1110.0" width="144.2" height="30" fill="#e5e7de"/><text x="1448.5" y="1130.5" text-anchor="middle" font-size="15.118" font-weight="400" fill="#0098d8">4–6 hours a week</text></g><g class="fl f-support"><rect x="2149.7" y="945.0" width="360.5" height="30" fill="#e5e7de"/><text x="2330.0" y="965.5" text-anchor="middle" font-size="15.118" font-weight="400" fill="#0098d8">judges and hiring managers, at the showcase</text></g><g class="fl f-work"><rect x="897.8" y="295.0" width="224.3" height="30" fill="#e5e7de"/><text x="1010.0" y="315.5" text-anchor="middle" font-size="15.118" font-weight="600" fill="#0b3536">OLOS, forked to the region</text></g><g class="fl f-work"><rect x="881.8" y="255.0" width="256.4" height="30" fill="#e5e7de"/><text x="1010.0" y="275.5" text-anchor="middle" font-size="15.118" font-weight="600" fill="#0b3536">changes that held up, upstream</text></g><g class="fl f-knowledge"><rect x="1321.8" y="445.0" width="256.4" height="30" fill="#e5e7de"/><text x="1450.0" y="465.5" text-anchor="middle" font-size="15.118" font-weight="400" fill="#0b3536">the method, the Cycle’s design</text></g><g class="fl f-support"><rect x="1761.4" y="275.0" width="200.3" height="30" fill="#e5e7de"/><text x="1861.5" y="295.5" text-anchor="middle" font-size="15.118" font-weight="400" fill="#0098d8">grants and partnerships</text></g><g class="fl f-support"><rect x="1823.8" y="585.0" width="272.4" height="30" fill="#e5e7de"/><text x="1960.0" y="605.5" text-anchor="middle" font-size="15.118" font-weight="400" fill="#0098d8">for the Greater Washington brand</text></g><text x="56" y="1772" font-size="15.118" font-weight="700" fill="#0b3536">How to read it</text><line x1="56" y1="1800" x2="146" y2="1800" stroke="#0098d8" stroke-width="7"/><text x="162" y="1805.5" font-size="15.118" fill="#0b3536">People</text><line x1="386" y1="1800" x2="476" y2="1800" stroke="#0b3536" stroke-width="7"/><text x="492" y="1805.5" font-size="15.118" fill="#0b3536">Work and code</text><line x1="716" y1="1800" x2="806" y2="1800" stroke="#0b3536" stroke-width="3"/><text x="822" y="1805.5" font-size="15.118" fill="#0b3536">Knowledge</text><line x1="1046" y1="1800" x2="1136" y2="1800" stroke="#0098d8" stroke-width="3"/><text x="1152" y="1805.5" font-size="15.118" fill="#0b3536">Money and support</text><line x1="1376" y1="1800" x2="1466" y2="1800" stroke="#f54123" stroke-width="7" stroke-dasharray="2 12" stroke-linecap="round"/><text x="1482" y="1805.5" font-size="15.118" fill="#0b3536">Where people leave</text><line x1="56" y1="1850" x2="146" y2="1850" stroke="#0b3536" stroke-width="7" stroke-dasharray="18 12"/><text x="162" y="1855.5" font-size="15.118" fill="#0b3536">Dashed: planned, not running yet</text><rect x="486" y="1836" width="40" height="28" fill="#0b3536"/><text x="542" y="1855.5" font-size="15.118" fill="#0b3536">Run by the region</text><rect x="816" y="1836" width="40" height="28" fill="#e5e7de" stroke="#0098d8" stroke-width="6"/><text x="872" y="1855.5" font-size="15.118" fill="#0b3536">People</text><rect x="1046" y="1836" width="40" height="28" fill="#e5e7de" stroke="#0b3536" stroke-width="3"/><text x="1102" y="1855.5" font-size="15.118" fill="#0b3536">Not run by the region</text></svg></div>
       <a class="btn" href="/flow/the-region.svg"><span class="t">Open the chart</span><span class="tile blue"><svg class="i" aria-hidden="true"><use href="#a-r"/></svg></span></a>
     </div>
   </section>
@@ -59,7 +59,7 @@
       <h3>Knowledge</h3>
       <p>National gives the method and the Cycle’s design. The region gives the Cycle problems worth twelve weeks; the Cycle gives back finds, paradoxes and what each team learned. Sessions give members a tool or a way of working. Alumni tell us what happened next.</p>
       <h3>Money and support</h3>
-      <p>Most of what keeps the region going today is time and rooms: four to six volunteer hours a week from each person in a Cycle, and libraries that open their doors. Grants, sponsorship, and employers in the room at the showcase are planned, not agreed.</p>
+      <p>Grants and partnerships move through The Upskilling Labs: funders and partners agree terms with national, not with the region. Most of what keeps the region going day to day is time and rooms: four to six volunteer hours a week from each person in a Cycle, and libraries that open their doors. The region plans to raise money of its own from sustaining regional members, for and through the Greater Washington brand. That money would still sit inside the national organization, in the region’s own sub-account. Employers in the room at the showcase are planned, not agreed.</p>
     </div>
   </section>
   <section class="sec grid" aria-labelledby="stops">

diff --git a/content/blog/region-chart/02-logic.html b/content/blog/region-chart/02-logic.html
@@ -13,4 +13,4 @@ tile:
 <h3>Knowledge</h3>
 <p>National gives the method and the Cycle’s design. The region gives the Cycle problems worth twelve weeks; the Cycle gives back finds, paradoxes and what each team learned. Sessions give members a tool or a way of working. Alumni tell us what happened next.</p>
 <h3>Money and support</h3>
-<p>Most of what keeps the region going today is time and rooms: four to six volunteer hours a week from each person in a Cycle, and libraries that open their doors. Grants, sponsorship, and employers in the room at the showcase are planned, not agreed.</p>
+<p>Grants and partnerships move through The Upskilling Labs: funders and partners agree terms with national, not with the region. Most of what keeps the region going day to day is time and rooms: four to six volunteer hours a week from each person in a Cycle, and libraries that open their doors. The region plans to raise money of its own from sustaining regional members, for and through the Greater Washington brand. That money would still sit inside the national organization, in the region’s own sub-account. Employers in the room at the showcase are planned, not agreed.</p>
